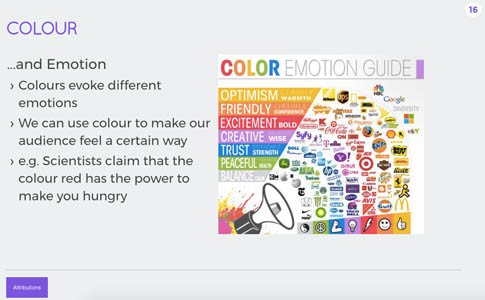
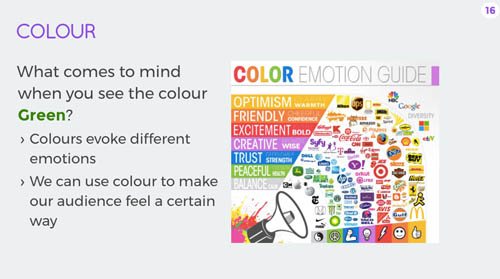
revisions

diff --git a/slides-en.html b/slides-en.html
@@ -236,23 +236,23 @@
     </section>
 
 <!-- Slide 16-->
-    <section class="slide two-col-list" data-markdown>
-      <script type="text/template">
-        #Colour
-        * ...and Emotion
-          * Colours evoke different emotions<!-- .element: class="delayed" -->
-          * We can use colour to make our audience feel a certain way<!-- .element: class="delayed" -->
-          * e.g. Scientists claim that the colour red has the power to make you hungry<!-- .element: class="delayed" -->
-        * ![http://visual.ly/color-emotion-guide](framework/img/workshop/colourguide.png)
-          ---
-          <div class="dropdown">
-            <button class="dropbtn">Attributions</button>
-            <div class="dropdown-content">
-              <a href="http://visual.ly/color-emotion-guide">Colour Emotion Guide image</a>
-            </div>
+<section class="slide two-col-list" data-markdown>
+  <script type="text/template">
+    #Colour
+    * What comes to mind when you see the colour <strong style="color:green;">Green</strong>?
+      * Colours evoke different emotions<!-- .element: class="delayed" -->
+      * We can use colour to make our audience feel a certain way<!-- .element: class="delayed" -->
+    * ![http://visual.ly/color-emotion-guide](framework/img/workshop/colourguide.png)<!-- .element: class="delayed" -->
 
-      </script>
-    </section>
+      ---
+      <div class="dropdown">
+        <button class="dropbtn">Attributions</button>
+        <div class="dropdown-content">
+          <a href="http://visual.ly/color-emotion-guide">Colour Emotion Guide image</a>
+        </div>
+
+  </script>
+</section>
 
 <!-- Slide 17-->
     <section class="slide two-col-list" data-markdown>
@@ -260,8 +260,8 @@
         #Typography
         * Fonts
           * You can say a lot with how you write something
-          * There are playful fonts, serious fonts, and many in between
-          * How do these compare?<!-- .element: class="delayed" -->
+          * Describe these fonts<!-- .element: class="delayed" -->
+          * Which types of businesses might use them?<!-- .element: class="delayed" -->
         * ![comparing logo typography](framework/img/workshop/typog.png)
           ---
           <div class="dropdown">
@@ -275,24 +275,19 @@
     </section>
 
 <!-- Slide 18-->
-    <section class="slide" data-markdown>
+    <section class="slide two-col-list" data-markdown>
       <script type="text/template">
         #Composition
-        * How we place or arrange things on our canvas
-        * We can create balance by using:
-          * Symmetry<!-- .element: class="delayed" -->
-          * Rule of Thirds<!-- .element: class="delayed" -->
-          * Negative space<!-- .element: class="delayed" -->
-
-        ![balance examples](framework/img/workshop/balance.png)<!-- .element: class="delayed" -->
+        * ![symmetry breakfast](framework/img/workshop/symmetry-breakfast.png)
+        * "Putting Together"
+          * How we place or arrange things on our canvas
+          * We can create balance by using symmetry (e.g.)
 
           ---
           <div class="dropdown">
             <button class="dropbtn">Attributions</button>
             <div class="dropdown-content">
               <a href="https://www.instagram.com/p/BSSNQFSAvTQ/">Photo by symmetrybreakfast</a>
-              <a href="https://iphonephotographyschool.com/square-composition/">Rule of Thirds</a>
-              <a href="https://www.famouslogos.us/wwf-logo/">WWF Logo</a>
             </div>
 
       </script>
@@ -345,7 +340,6 @@
           * KISS (Keep It Super Simple)<!-- .element: class="delayed" -->
           * Arrange your images using grids (line up the edges)<!-- .element: class="delayed" -->
           * Stay consistent by using a colour palette<!-- .element: class="delayed" -->
-          * Use contrast to make things stand out<!-- .element: class="delayed" -->
         * ![https://www.behance.net/gallery/51098779/Applied-Arts-Magazine](framework/img/workshop/grid.jpg)
 
         <br>
@@ -449,9 +443,9 @@
         <script type="text/template">
           # Today I Learned...
 
-          <p><strong>I can</strong> create algorithms in Scratch</p><!-- .element: class="delayed" -->
           <p><strong>I can</strong> use colour to communicate an emotion or idea </p><!-- .element: class="delayed" -->
           <p><strong>I can</strong> use symmetry to create balance in my design</p><!-- .element: class="delayed" -->
+          <p><strong>I can</strong> create algorithms in Scratch</p><!-- .element: class="delayed" -->
           <p><strong>I can</strong> use events to control when things happen in my project</p><!-- .element: class="delayed" -->
           <p><strong>I can</strong> use loops to make things happen more than once</p><!-- .element: class="delayed" -->
           <p><strong>I can</strong> use Canva to keep designing, and Scratch to KEEP CODING!</p><!-- .element: class="delayed" -->

diff --git a/notes-en.html b/notes-en.html
@@ -155,6 +155,8 @@
             <td><img src="framework/img/workshop/slides/16.jpg" alt="slide"></td>
             <td> Q: How does the colour yellow make you feel? What comes to mind when you see the colour blue?
               <br><br>
+              Intresting fact: Scientists claim that the colour red has the power to make you hungry
+              <br><br>
               (Point out a few examples from the Color Emotion Guide)</td>
           </tr><tr>
             <td><img src="framework/img/workshop/slides/17.jpg" alt="slide"></td>
@@ -372,6 +374,8 @@
           <td><img src="framework/img/workshop/slides/16.jpg" alt="slide"></td>
           <td> Q: How does the colour yellow make you feel? What comes to mind when you see the colour blue?
             <br><br>
+            Intresting fact: Scientists claim that the colour red has the power to make you hungry
+            <br><br>
             (Point out a few examples from the Color Emotion Guide)</td>
         </tr><tr>
           <td><img src="framework/img/workshop/slides/17.jpg" alt="slide"></td>
@@ -412,21 +416,6 @@
 
   <section class="slide" data-toc data-markdown>
     <script type="text/template">
-        #Code-Along
-
-        * Open up Scratch, and click on “create” (top, left corner).
-        * Point out the main elements: Stage, Sprites, and Scripts. Demonstrate how to drag and connect blocks.
-        * Give learners a few minutes to click on blocks and explore.
-        * Go through 2-4 challenges with the group, where learners are tasked with trying to make something happen in Scratch. For example, “Try to make Scratch the cat move” or “Try to make Scratch the cat say something when the space key is pressed” (See <a href="http://bit.ly/scratch-challenge-solutions-doc">Code-Along Challenges</a> for more examples and solutions)
-        * After 5 minutes on a challenge, have a volunteer come to the front and show how they solved the challenge. Point out that there are many different ways to approach these challenges, and multiple solutions. Ask if anyone solved it in a different way.
-        * If time, ask learners to think of challenges for the group.
-        * This is a great time to address common bugs and questions that arise, e.g. how to delete a sprite, what to do when a sprite has walked off of the screen, etc.
-
-      </script>
-    </section>
-
-  <section class="slide" data-toc data-markdown>
-    <script type="text/template">
       #Work Session: Canva
 
       * Select 1-2 projects from the <a href="https://docs.google.com/spreadsheets/d/1cNmFTqK3wGKassUwwBAfuzKgMsc5ShxeTCpU_WnzeCw/edit?usp=sharing">activity list</a>. Suggested activity: Card. (Optional: Choose a theme! e.g. Halloween)
@@ -440,6 +429,21 @@
 
     </script>
   </section>
+
+  <section class="slide" data-toc data-markdown>
+    <script type="text/template">
+        #Code-Along
+
+        * Open up Scratch, and click on “create” (top, left corner).
+        * Point out the main elements: Stage, Sprites, and Scripts. Demonstrate how to drag and connect blocks.
+        * Give learners a few minutes to click on blocks and explore.
+        * Go through 2-4 challenges with the group, where learners are tasked with trying to make something happen in Scratch. For example, “Try to make Scratch the cat move” or “Try to make Scratch the cat say something when the space key is pressed” (See <a href="http://bit.ly/scratch-challenge-solutions-doc">Code-Along Challenges</a> for more examples and solutions)
+        * After 5 minutes on a challenge, have a volunteer come to the front and show how they solved the challenge. Point out that there are many different ways to approach these challenges, and multiple solutions. Ask if anyone solved it in a different way.
+        * If time, ask learners to think of challenges for the group.
+        * This is a great time to address common bugs and questions that arise, e.g. how to delete a sprite, what to do when a sprite has walked off of the screen, etc.
+
+      </script>
+    </section>
 
   <section class="slide" data-toc data-markdown>
     <script type="text/template">
